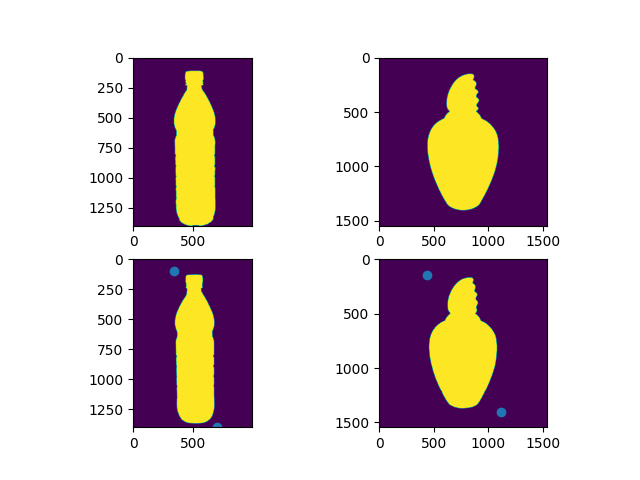
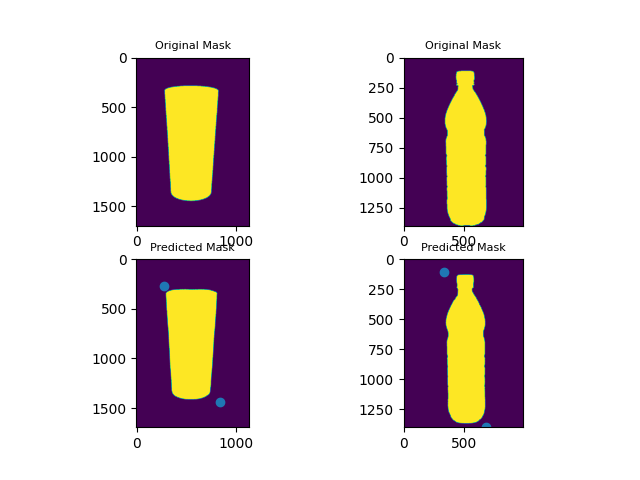
docs

Changed region(s): [[0.5312, 0.0625, 0.875, 0.9375], [0.125, 0.0625, 0.4062, 0.9375]]

diff --git a/src/utils.py b/src/utils.py
@@ -168,5 +168,7 @@ def tensor_to_image(gt_masks: list, pred_msks: list, bboxes: list):
         axarr[1, i].scatter([bbox[0], bbox[2]], [bbox[1], bbox[3]])
         axarr[0, i].imshow(gt_msk[:, :])
         axarr[1, i].imshow(pred_msk[:, :])
+        axarr[0, i].set_title('Original Mask', fontdict  = {"fontsize": 8})
+        axarr[1, i].set_title('Predicted Mask', fontdict  = {"fontsize": 8})
     plt.savefig("../plots/comparaison.png")
 

diff --git a/README.md b/README.md
@@ -29,7 +29,7 @@ All the dependecies are managed with poetry. i did not add a requirements.txt so
 # Demo
 Gradio demo available by running. You can load your image and place 2 points to form a boudning box. After that run the generation of the mask.
 ```sh
-   poetry run python ../app.py
+   demo_sam_lora.ipynb
 ```
 
 # Training
